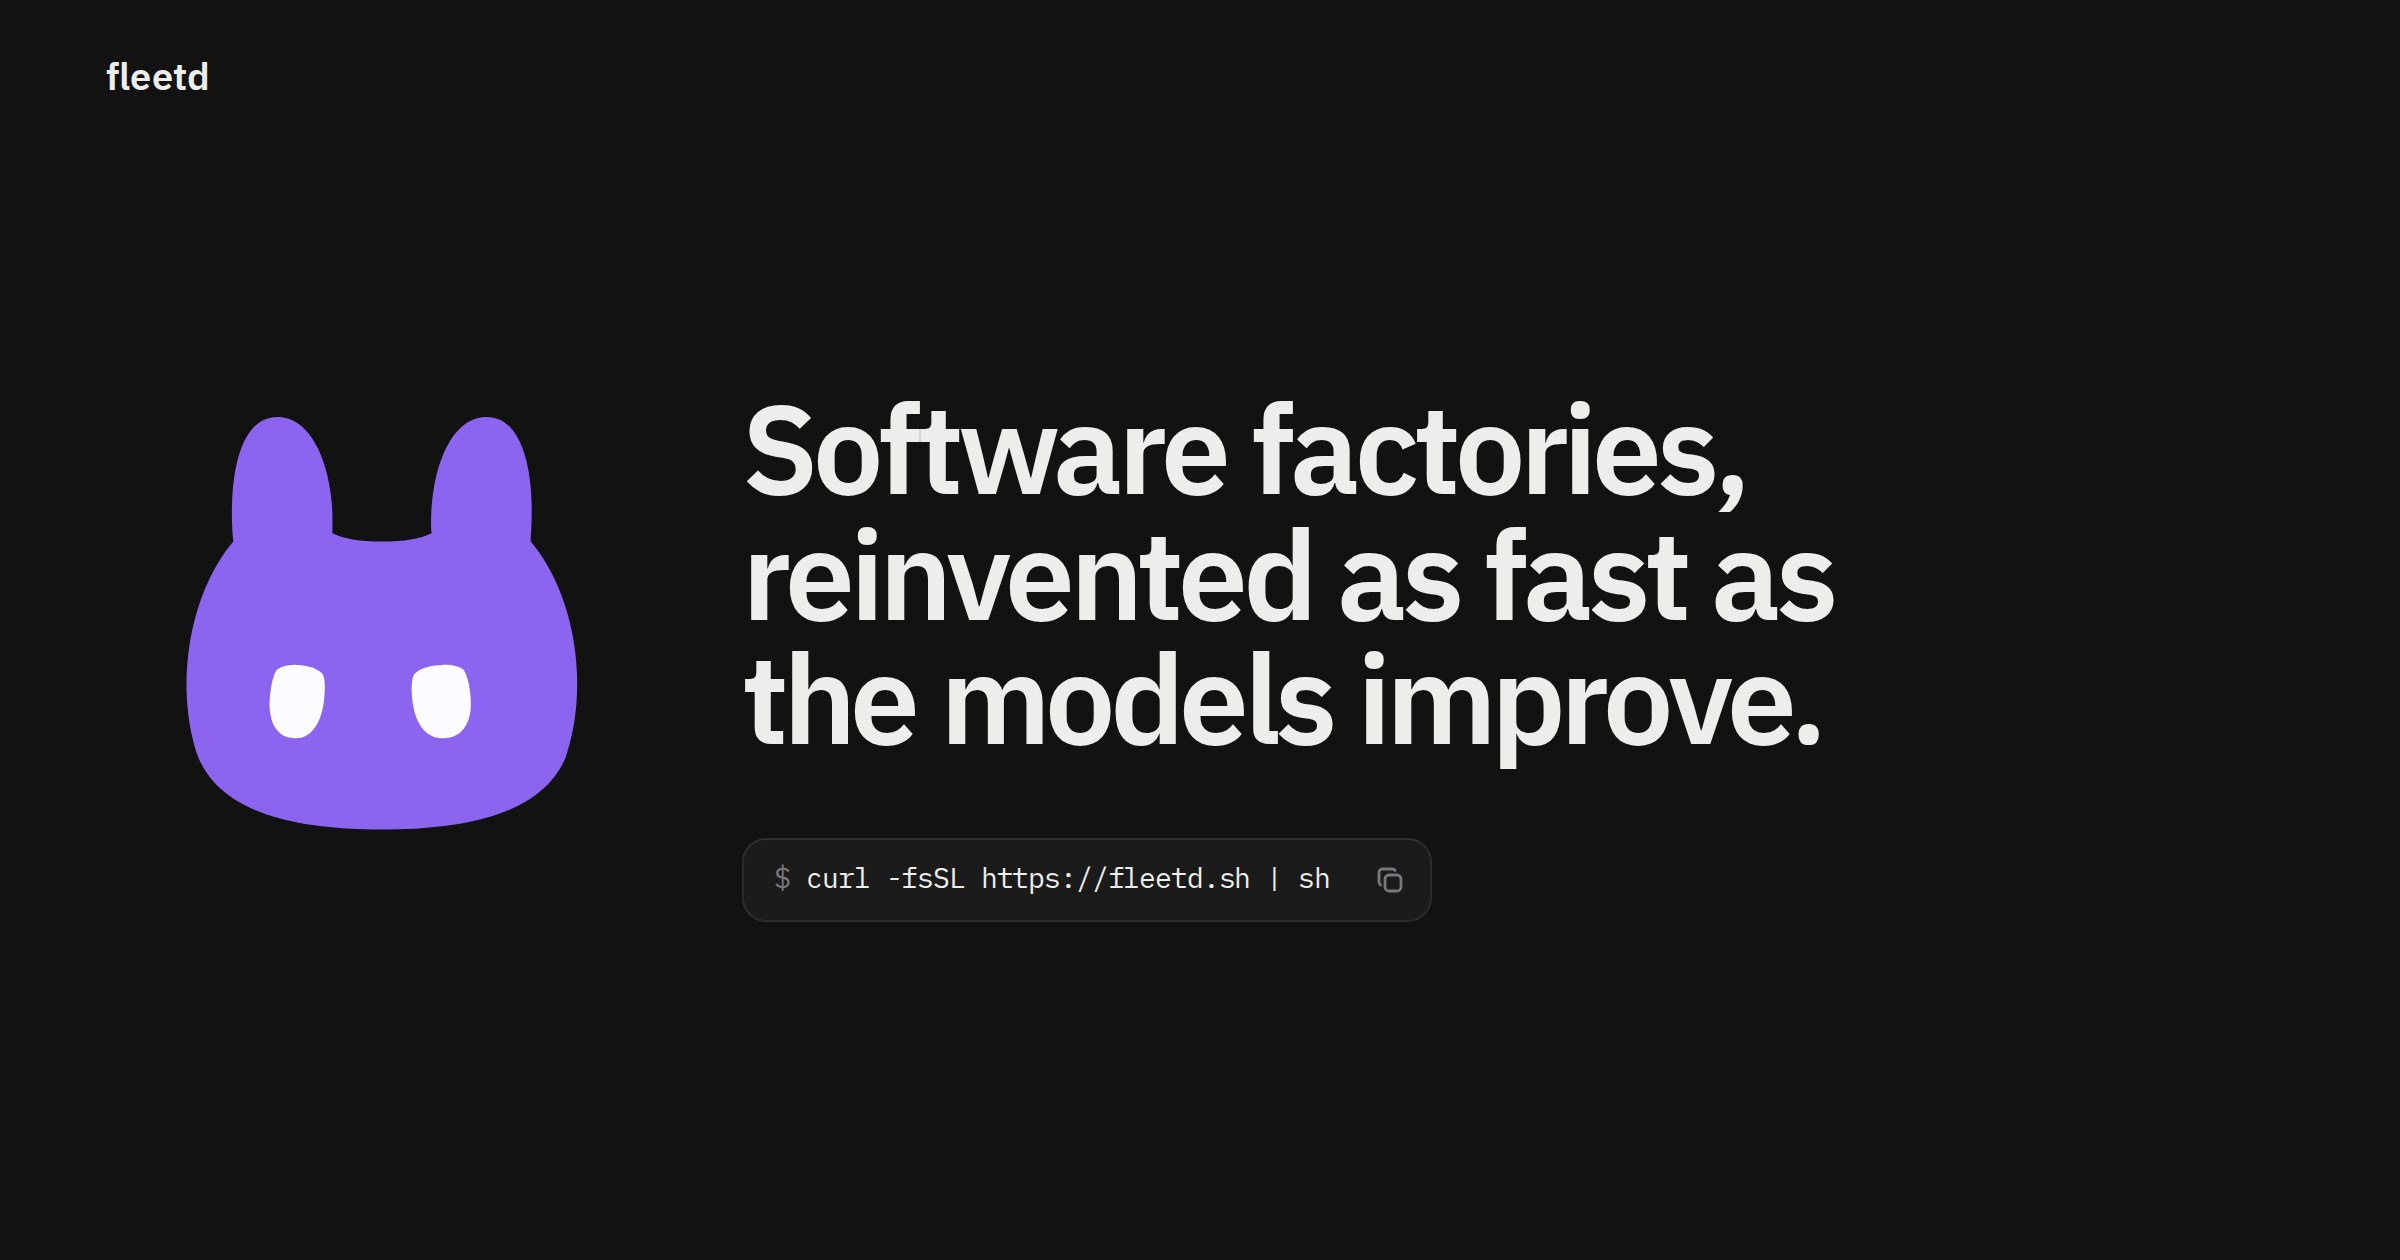
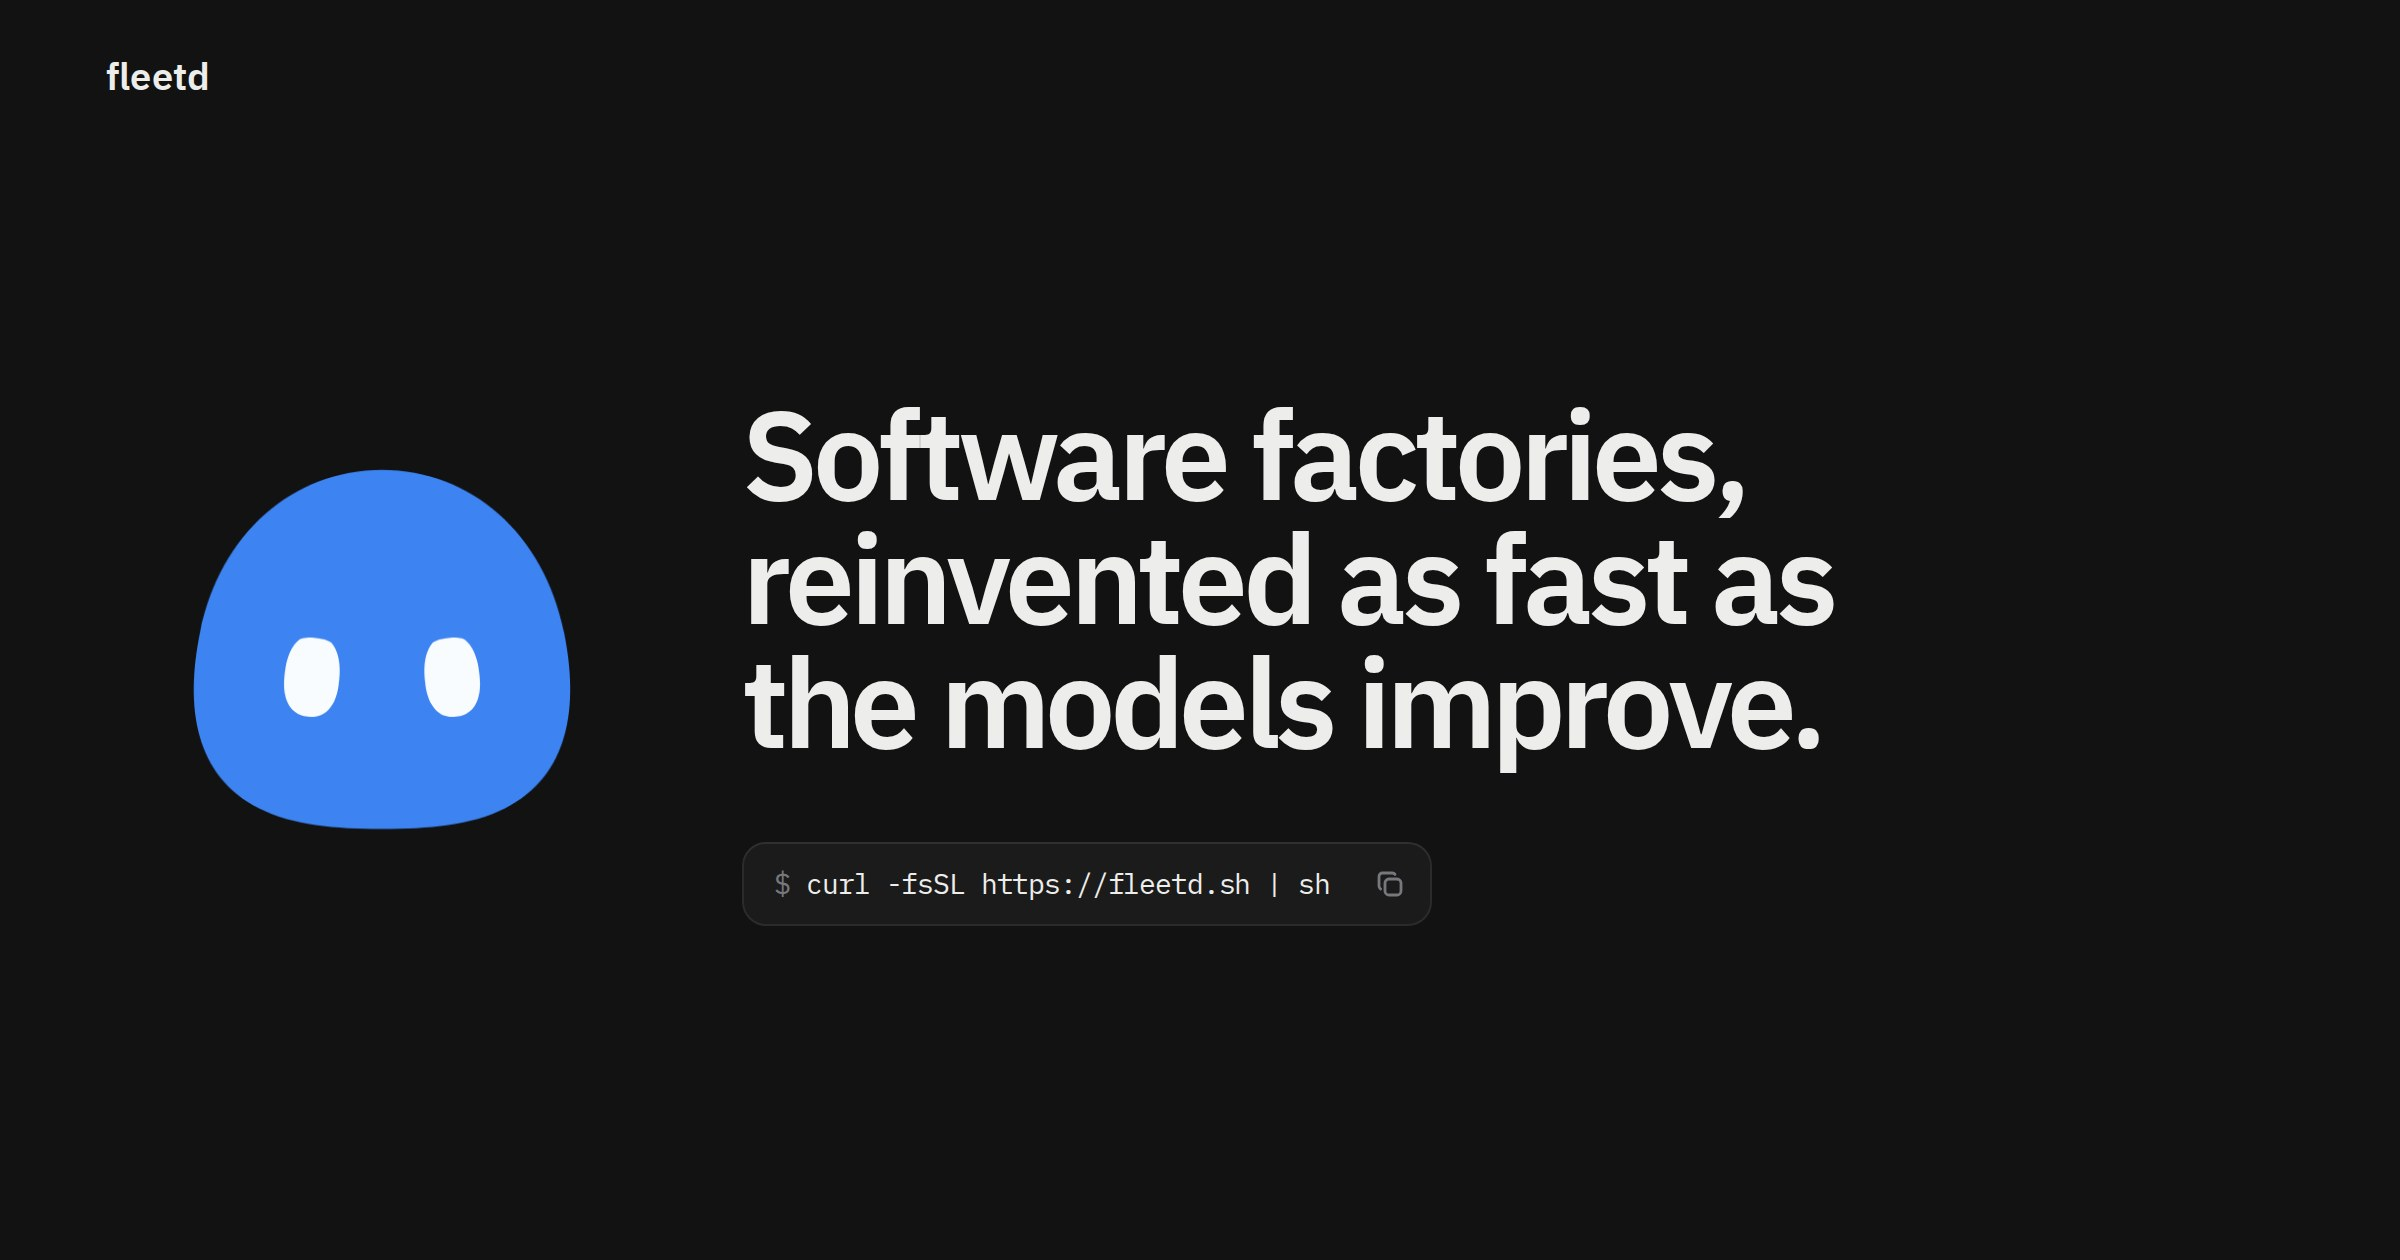
fix(site): the link card shows Pebble, not a kitty (W890)

diff --git a/site/README.md b/site/README.md
@@ -89,7 +89,9 @@ their own); it shows at the missing address, so its links and assets are absolut
 (home, pricing, the legal pages and support) and the docs' own sitemap. `favicon.ico` and `apple-touch-icon.png` come from `npm run icons` in
 `app/mobile`, with `icon.svg`. `card.jpg` is the link card (og:image) of home, pricing and the docs: the page's own hero
 at 1200x630 and 2x, shot in Chrome from `node .github/docs-serve.mjs` with the header's nav, the stage, the facts
-line and everything under the hero hidden, once the bot has its first colour. Shoot it again when the hero changes.
+line and everything under the hero hidden and the hero 75 px lower, once the bot has its first colour: Pebble in blue
+(the hero's plan starts there), never a later step, whose body may be another (a kitty, a bunny). Shoot it again when
+the hero changes.
 
 The legal pages, `terms.html`, `privacy.html`, `refunds.html` and `imprint.html` (`/terms`, `/privacy`, `/refunds`,
 `/imprint`), and `support.html` (`/support`, the App Store's Support URL) share `legal.css`: pricing's header and footer,
